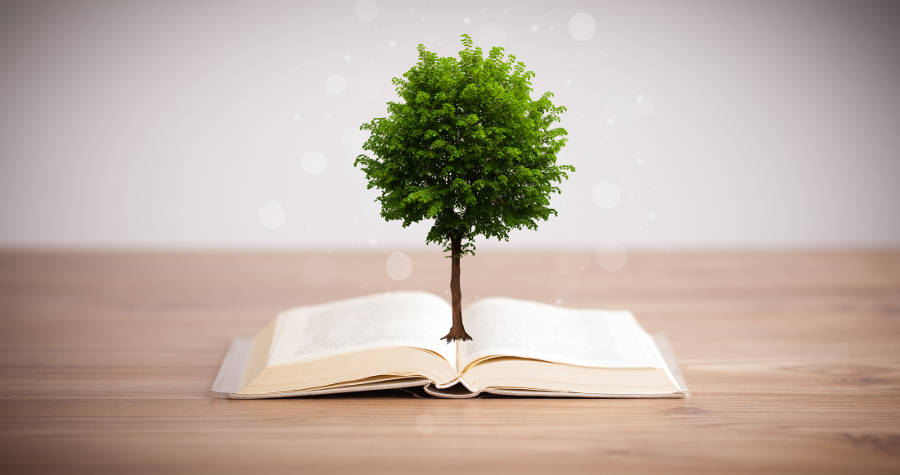
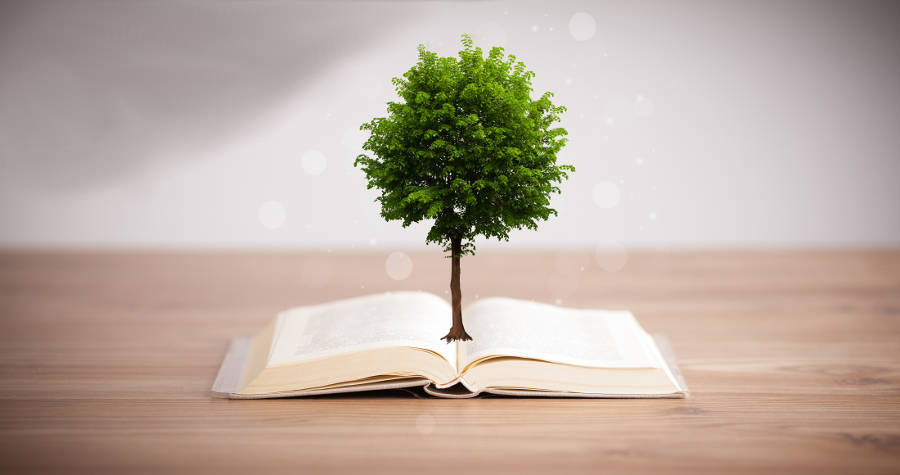
Config for heroku and smudge tree pic

Changed region(s): [[0.0622, 0.0, 0.4356, 0.3832], [0.4978, 0.0589, 0.5289, 0.0884], [0.4667, 0.0884, 0.4978, 0.1179]]

diff --git a/app/controllers/static_controller.rb b/app/controllers/static_controller.rb
@@ -70,7 +70,7 @@ class StaticController < ApplicationController
 	end
 
 	def subject_search
-		@subjects = params[:search] == '' ? [] : Subject.where('name LIKE ?', "%#{params[:search]}%")
+		@subjects = params[:search] == '' ? [] : Subject.where('name ILIKE ?', "%#{params[:search]}%")
 		render json: @subjects
 		fresh_when [params[:search_subjects], params[:position]]
 	end
@@ -79,7 +79,7 @@ class StaticController < ApplicationController
 		require 'will_paginate/array' 
 		#ids = Location.near('cork', 10).select('id').map(&:teacher_id)
 		#Teacher.includes(:locations).where(id: ids)
-		@subjects = Subject.where('name LIKE ?', "%#{params[:search_subjects]}%")
+		@subjects = Subject.where('name ILIKE ?', "%#{params[:search_subjects]}%")
 		@subject = @subjects.first
 		if @subjects.empty?			
 			@teachers = @subjects.paginate(page: params[:page])

diff --git a/config/initializers/devise.rb b/config/initializers/devise.rb
@@ -234,7 +234,7 @@ Devise.setup do |config|
   config.omniauth :google_oauth2, ENV["GOOGLE_CLIENT_ID"], ENV["GOOGLE_CLIENT_SECRET"], { access_type: "offline", approval_prompt: "" }
   config.omniauth :twitter, ENV["TWITTER_API_KEY"], ENV["TWITTER_API_SECRET"]
   config.omniauth :linkedin, ENV["LINKEDIN_KEY"], ENV["LINKEDIN_SECRET"]
-  OpenSSL::SSL::VERIFY_PEER = OpenSSL::SSL::VERIFY_NONE
+  # OpenSSL::SSL::VERIFY_PEER = OpenSSL::SSL::VERIFY_NONE
 
   Devise::TRUE_VALUES << ["on"]
 

diff --git a/app/controllers/teachers_controller.rb b/app/controllers/teachers_controller.rb
@@ -111,7 +111,7 @@ class TeachersController < ApplicationController
 	end
 
 	def teacher_subject_search
-		@subjects = params[:search] == '' ? [] : Subject.where('name LIKE ?', "%#{params[:search]}%")
+		@subjects = params[:search] == '' ? [] : Subject.where('name ILIKE ?', "%#{params[:search]}%")
 	end
 
 	def previous_lessons

diff --git a/app/controllers/subjects_controller.rb b/app/controllers/subjects_controller.rb
@@ -27,7 +27,7 @@ class SubjectsController < ApplicationController
 	def subject_search
 		#@subjects = Subject.all
 
-		@subjects = params[:search] == '' ? [] : Subject.where('name LIKE ?', "%#{params[:search]}%")
+		@subjects = params[:search] == '' ? [] : Subject.where('name ILIKE ?', "%#{params[:search]}%")
 	end
 
 	

diff --git a/config/routes.rb b/config/routes.rb
@@ -73,5 +73,5 @@ Rails.application.routes.draw do
   get         'admin-panel'             =>  'admins#admin_panel'
   put         'make_admin'              =>  'admins#make_admin'
 
-  root to: 'static#welcome'
+  root to: 'static#landing_page'
 end
